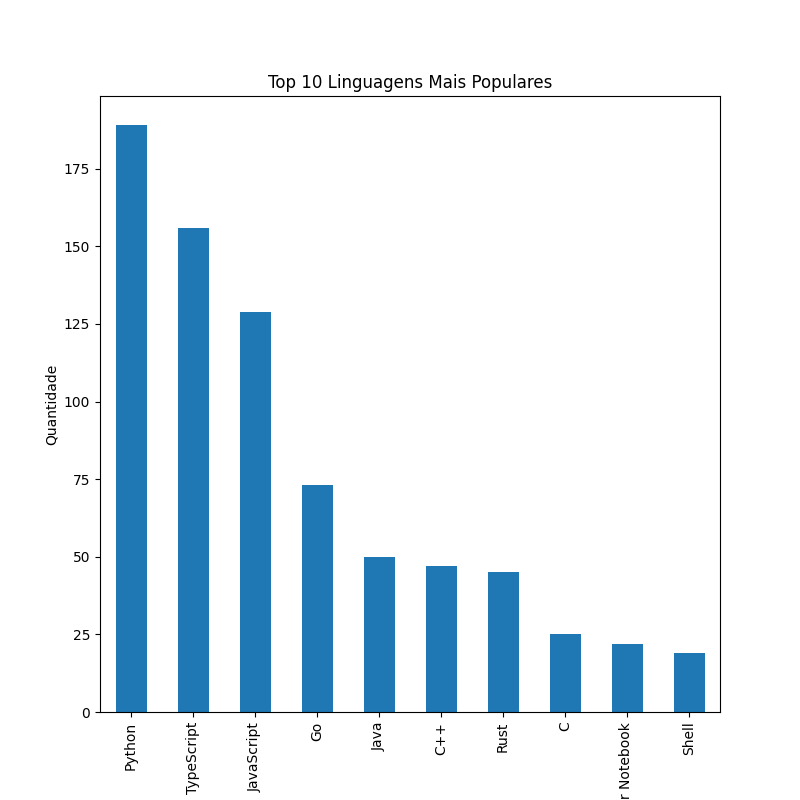
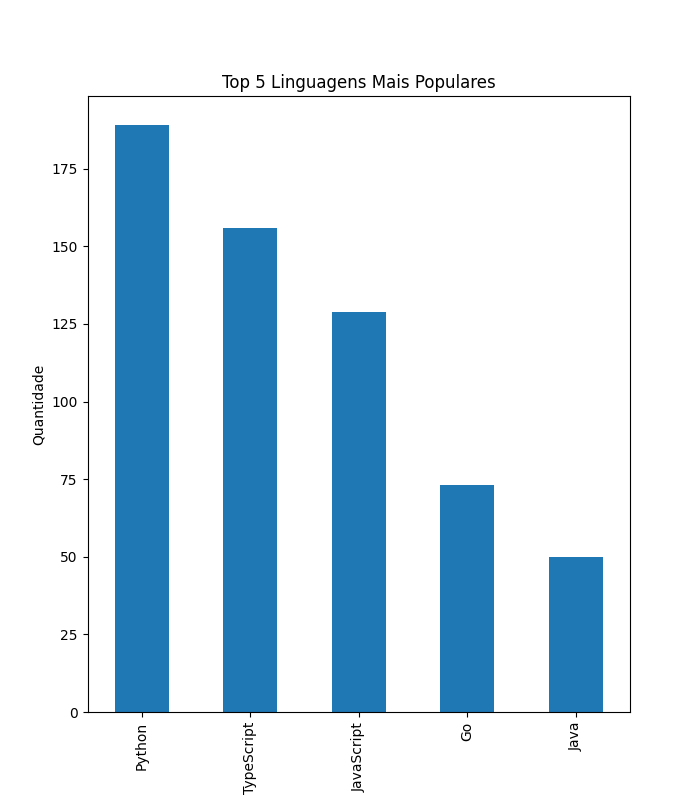
feat: new graphs

diff --git a/lab-01/code/analise.py b/lab-01/code/analise.py
@@ -2,6 +2,7 @@ import os
 from datetime import datetime
 import matplotlib.pyplot as plt
 import pandas as pd
+import numpy as np
 
 def analisar_repositorios(data_path: str):
     if not os.path.exists(data_path):
@@ -74,9 +75,30 @@ def analisar_repositorios(data_path: str):
     plt.savefig(os.path.join(charts_dir, f"idade_{file_stem}.png"))
     plt.close()
 
+    # Pull Requests Aceitos
+    df["mergedPRs"].dropna().hist(bins=30)
+    plt.title("Distribuição Pull Requests Aceitos")
+    plt.xlabel("Pull Requests Aceitos")
+    plt.ylabel("Quantidade")
+    plt.savefig(os.path.join(charts_dir, f"pull_requests_aceitos_{file_stem}.png"))
+    plt.close()
+
+    # Pull Requests Aceitos 90%
+    s = df["mergedPRs"].dropna()
+    limite = s.quantile(0.9)  # valor do percentil 90
+
+    x = np.sort(s[s <= limite])
+    y = np.arange(1, len(x)+1) / len(x)
+    plt.plot(x, y, marker=".", linestyle="none")
+    plt.title("ECDF de Pull Requests Aceitos (até o 90º percentil)")
+    plt.xlabel("Pull Requests Aceitos")
+    plt.ylabel("Proporção acumulada")
+    plt.savefig(os.path.join(charts_dir, f"pull_requests_aceitos_ECDF_{file_stem}.png"))
+    plt.close()
+
     # Top linguagens
-    df["primaryLanguage"].value_counts().head(10).plot(kind="bar", figsize=(8,8))
-    plt.title("Top 10 Linguagens Mais Populares")
+    df["primaryLanguage"].value_counts().head(5).plot(kind="bar", figsize=(7, 8))
+    plt.title("Top 5 Linguagens Mais Populares")
     plt.ylabel("Quantidade")
     plt.xlabel("Linguagem")
     plt.savefig(os.path.join(charts_dir, f"linguagens_{file_stem}.png"))
